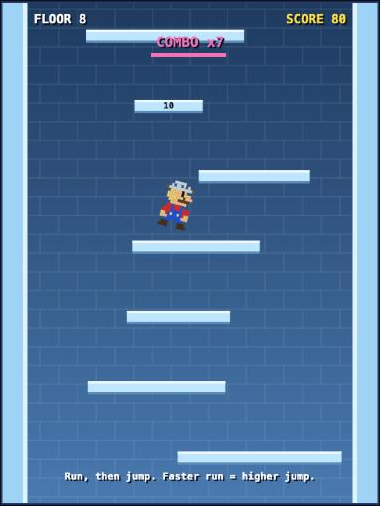
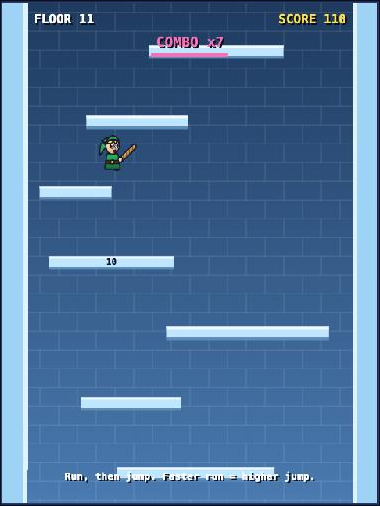
Redraw characters as vector art and add wall-kick jumps
Characters are now drawn with canvas shapes (outlines, gradients, run
animation) instead of 12x16 pixel grids. Wall bounces now add speed
instead of losing it, and jumping within 0.2s of a bounce gives a bonus
wall-kick jump. Build log updated with hours, research, and new screenshot.

diff --git a/docs/game.html b/docs/game.html
@@ -21,123 +21,185 @@ const WALL = 32;              // thickness of the side walls
 const FLOOR_GAP = 90;         // vertical distance between floors
 const STEP = 1 / 60;          // physics runs at a fixed 60 ticks/sec
 
-// ---------- Parody characters (pixel art: each letter is a color) ----------
+// ---------- Parody characters (vector art drawn with canvas shapes) ----------
+// Each character draws itself inside a 36x48 box, facing right, feet at the bottom.
+// `t` is the run-animation phase, `air` is true while jumping.
+const PW = 36, PH = 48;
+const OUTLINE = '#1a1a2e';
+
+function shape(fill, build) {
+  ctx.beginPath(); build(); ctx.fillStyle = fill; ctx.fill(); ctx.stroke();
+}
+const ellipse = (x, y, rx, ry, fill, rot = 0) => shape(fill, () => ctx.ellipse(x, y, rx, ry, rot, 0, Math.PI * 2));
+const circle = (x, y, r, fill) => ellipse(x, y, r, r, fill);
+const box = (x, y, w, h, r, fill) => shape(fill, () => ctx.roundRect(x, y, w, h, r));
+const shine = (x0, y0, x1, y1, light, dark) => {
+  const g = ctx.createLinearGradient(x0, y0, x1, y1);
+  g.addColorStop(0, light); g.addColorStop(1, dark);
+  return g;
+};
+function eye(x, y, r, lookX = 0.4, lookY = 0) {
+  ctx.lineWidth = 1;
+  ellipse(x, y, r * 0.75, r, '#fff');
+  ctx.beginPath(); ctx.arc(x + lookX * r * 0.4, y + lookY * r * 0.4, r * 0.45, 0, Math.PI * 2); ctx.fillStyle = '#111'; ctx.fill();
+  ctx.beginPath(); ctx.arc(x + lookX * r * 0.4 + r * 0.15, y + lookY * r * 0.4 - r * 0.2, r * 0.15, 0, Math.PI * 2); ctx.fillStyle = '#fff'; ctx.fill();
+  ctx.lineWidth = 1.5;
+}
+// two legs that swing while running and tuck while jumping
+function legs(t, air, hipY, drawLeg) {
+  const swing = air ? 0 : Math.sin(t) * 4;
+  const lift = air ? -4 : 0;
+  drawLeg(13 - swing, hipY, 46 + lift + Math.max(0, -Math.sin(t)) * -2);
+  drawLeg(23 + swing, hipY, 46 + lift + Math.max(0, Math.sin(t)) * -2);
+}
+
 const CHARACTERS = [
   {
     name: 'Super Marinara',
     bio: "It's-a me, a pasta.",
     stats: { accel: 0.45, maxSpeed: 9, jump: 11, grip: 0.97 },
-    palette: { R: '#d62828', C: '#cbd5e1', o: '#475569', m: '#7f4f24', Y: '#f4d35e', S: '#f1c27d', K: '#111', H: '#5c3a1a', B: '#1d4ed8', N: '#4a2c12' },
-    art: [
-      '...CCCCC....',
-      '..CoCCoCoC..',
-      'mCCCCCCCCCCm',
-      '..YYSSSKS...',
-      '.YSYSSSKSSS.',
-      '.YSYYSSSHSSS',
-      '..YSSSHHHHH.',
-      '...SSSSSSS..',
-      '..RRBRRRB...',
-      '.RRRBRRRBRRR',
-      'RRRRBBBBBRRR',
-      'SSRBYBBYBRSS',
-      'SSSBBBBBBSSS',
-      '..BBB..BBB..',
-      '.NNN....NNN.',
-      'NNNN....NNNN',
-    ],
+    draw(t, air) {
+      legs(t, air, 38, (x, hip, foot) => {
+        box(x - 3, hip, 6, foot - hip - 2, 2, '#1d4ed8');
+        ellipse(x + 2, foot - 1, 5, 3, '#4a2c12');
+      });
+      // spaghetti hair hanging out the back
+      ctx.save(); ctx.strokeStyle = '#e9c46a'; ctx.lineWidth = 2;
+      for (let i = 0; i < 4; i++) {
+        ctx.beginPath(); ctx.moveTo(12 + i, 12);
+        ctx.quadraticCurveTo(5 + i * 2, 18 + i * 2, 9 + i, 26 + i * 2 + Math.sin(t + i) * 1.5);
+        ctx.stroke();
+      }
+      ctx.restore();
+      ellipse(18, 32, 11, 8, shine(0, 24, 0, 40, '#ef4444', '#991b1b'));          // red shirt
+      box(11, 28, 14, 12, 3, shine(0, 28, 0, 40, '#3b82f6', '#1e3a8a'));         // overalls bib
+      circle(13.5, 31, 1.5, '#facc15'); circle(22.5, 31, 1.5, '#facc15');
+      // fork arm
+      ctx.save(); ctx.strokeStyle = '#94a3b8'; ctx.lineWidth = 1.5;
+      ctx.beginPath(); ctx.moveTo(31, 36); ctx.lineTo(34, 18); ctx.stroke();
+      for (const dx of [-1.5, 0, 1.5]) { ctx.beginPath(); ctx.moveTo(34 + dx, 18); ctx.lineTo(34.5 + dx, 13); ctx.stroke(); }
+      ctx.restore();
+      ellipse(28, 33, 4, 3, '#ef4444', -0.5); circle(31, 31, 2.8, '#fff');
+      // head
+      circle(19, 17, 9, shine(10, 8, 28, 26, '#fcd9a8', '#e0a96d'));
+      ellipse(27, 19, 4, 3.2, '#f4a582');                                         // big nose
+      ellipse(22, 23, 4, 2, '#4a2c12'); ellipse(28, 22.5, 4, 2, '#4a2c12');       // mustache
+      eye(22, 14, 3);
+      // colander hat
+      shape(shine(10, 2, 28, 12, '#f1f5f9', '#94a3b8'), () => { ctx.arc(19, 11, 10, Math.PI, 0); ctx.closePath(); });
+      ctx.fillStyle = '#334155';
+      for (const [hx, hy] of [[14, 7], [19, 5], [24, 7], [16.5, 9.5], [21.5, 9.5]]) { ctx.beginPath(); ctx.arc(hx, hy, 0.9, 0, Math.PI * 2); ctx.fill(); }
+      box(6, 10, 26, 3, 1.5, '#cbd5e1');
+      ellipse(5, 11.5, 2.5, 1.8, '#94a3b8'); ellipse(33, 11.5, 2.5, 1.8, '#94a3b8');
+    },
   },
   {
     name: 'Soggy the Hedgehog',
     bio: 'Gotta go... eventually.',
     stats: { accel: 0.5, maxSpeed: 10.5, jump: 10.5, grip: 0.985 },
-    palette: { U: '#2563eb', D: '#1e3a8a', W: '#fff', K: '#111', S: '#f1c27d', R: '#dc2626', C: '#67e8f9' },
-    art: [
-      '....UUUU....',
-      '..UUUUUUU...',
-      '.UUUUUUUUU..',
-      'UUUUWWKWW...',
-      'DUUUWWKWWS..',
-      'UUUUSSSSSSS.',
-      'DUUUUSSKKS..',
-      '.UUUUSSSS...',
-      '..UUUUUU.C..',
-      '.SUUSSUUS...',
-      '..UUSSSUU...',
-      '...UUUUU..C.',
-      '...UU.UU....',
-      '..WRR.WRR...',
-      '.RRRR.RRRR..',
-      '.C........C.',
-    ],
+    draw(t, air) {
+      legs(t, air, 36, (x, hip, foot) => {
+        box(x - 1.5, hip, 3, foot - hip - 2, 1.5, '#1e40af');
+        ellipse(x + 2, foot - 1.5, 6, 3.2, shine(0, foot - 4, 0, foot, '#f87171', '#b91c1c'));
+        ctx.save(); ctx.strokeStyle = '#fff'; ctx.lineWidth = 1.5; ctx.beginPath(); ctx.moveTo(x, foot - 4); ctx.lineTo(x + 2, foot); ctx.stroke(); ctx.restore();
+      });
+      // droopy, waterlogged spines
+      const blue = shine(0, 6, 0, 40, '#3b82f6', '#1e3a8a');
+      for (const [tx, ty] of [[1, 30], [3, 24], [4, 17]]) {
+        shape(blue, () => { ctx.moveTo(14, 10); ctx.quadraticCurveTo(tx - 2, ty - 8, tx, ty); ctx.lineTo(16, 22); ctx.closePath(); });
+      }
+      ellipse(17, 32, 8, 8, blue);
+      ellipse(19, 33, 5, 5.5, '#fcd9a8');                                          // belly
+      ellipse(27, 31, 4.5, 1.8, '#fcd9a8', 0.4); circle(30, 33, 2.5, '#fff');      // limp arm
+      circle(19, 17, 10, blue);
+      ellipse(25, 21, 6, 4, '#fcd9a8');                                            // muzzle
+      circle(30.5, 19, 1.8, '#111');
+      ctx.save(); ctx.lineWidth = 1; ctx.beginPath(); ctx.arc(26, 24.5, 2.5, Math.PI * 1.15, Math.PI * 1.85); ctx.stroke(); ctx.restore(); // frown
+      eye(23.5, 13.5, 4, 0.4, 0.6);
+      // heavy eyelid makes him look sad
+      shape('#2563eb', () => { ctx.ellipse(23.5, 13.5, 3.3, 4.3, 0, Math.PI * 1.05, Math.PI * 1.95); ctx.closePath(); });
+      // tiny personal rain cloud, with drops that fall on a loop
+      ctx.save(); ctx.lineWidth = 1;
+      ellipse(15, -6, 5, 3, '#94a3b8'); ellipse(21, -7, 6, 4, '#94a3b8'); ellipse(26, -5, 4, 3, '#94a3b8');
+      ctx.fillStyle = '#67e8f9';
+      for (let i = 0; i < 3; i++) {
+        const dy = ((t * 6 + i * 7) % 14);
+        ctx.beginPath(); ctx.ellipse(15 + i * 5, -2 + dy, 0.9, 1.6, 0, 0, Math.PI * 2); ctx.fill();
+      }
+      ctx.restore();
+    },
   },
   {
     name: 'Tax-Man',
     bio: 'Wakka wakka. You owe 30%.',
     stats: { accel: 0.38, maxSpeed: 8.5, jump: 12.5, grip: 0.97 },
-    palette: { G: '#16a34a', Y: '#facc15', K: '#111', W: '#f8fafc' },
-    art: [
-      '...GGGGGG...',
-      '..GGGGGGGG..',
-      '.GGGGGGGGGG.',
-      '.YYYYYYYYYY.',
-      'YYYYKYYYYYYY',
-      'YYYYKYYYY...',
-      'YYYYYYYY....',
-      'YYYYYYY..WW.',
-      'YYYYYYYY.WK.',
-      'YYYYYYYYY...',
-      'YYYYYYYYYYYY',
-      '.YYYYYYYYYY.',
-      '..YYYYYYYY..',
-      '...YYYYYY...',
-      '....K..K....',
-      '...KK..KK...',
-    ],
+    draw(t, air) {
+      legs(t, air, 38, (x, hip, foot) => {
+        ctx.save(); ctx.lineWidth = 2.5; ctx.beginPath(); ctx.moveTo(x, hip); ctx.lineTo(x, foot - 2); ctx.stroke(); ctx.restore();
+        ellipse(x + 2.5, foot - 1.5, 4.5, 2.2, '#111');
+      });
+      // receipt tape spilling from the mouth
+      ctx.save(); ctx.lineWidth = 1;
+      box(29, 22 + Math.sin(t) * 1.5, 7, 12, 1, '#f8fafc');
+      ctx.strokeStyle = '#94a3b8';
+      for (let ly = 25; ly < 33; ly += 2.5) { ctx.beginPath(); ctx.moveTo(30.5, ly + Math.sin(t) * 1.5); ctx.lineTo(34.5, ly + Math.sin(t) * 1.5); ctx.stroke(); }
+      ctx.restore();
+      // chomping body: the mouth opens and closes as he runs
+      const open = air ? 0.55 : 0.15 + Math.abs(Math.sin(t)) * 0.4;
+      shape(shine(6, 10, 30, 42, '#fde047', '#ca8a04'), () => { ctx.moveTo(18, 26); ctx.arc(18, 26, 15, open, Math.PI * 2 - open); ctx.closePath(); });
+      shape('#dc2626', () => { ctx.moveTo(15, 38); ctx.lineTo(19, 38); ctx.lineTo(18.5, 44); ctx.lineTo(17, 46); ctx.lineTo(15.5, 44); ctx.closePath(); }); // necktie
+      eye(19, 18, 3);
+      ctx.save(); ctx.lineWidth = 1.2; ctx.strokeStyle = '#78350f';
+      ctx.beginPath(); ctx.arc(19.5, 18, 4.5, 0, Math.PI * 2); ctx.stroke();            // reading glasses
+      ctx.beginPath(); ctx.moveTo(15, 18); ctx.lineTo(8, 16); ctx.stroke();
+      ctx.restore();
+      // green accountant's visor
+      ctx.save(); ctx.globalAlpha = 0.85;
+      shape(shine(0, 6, 0, 14, '#4ade80', '#15803d'), () => { ctx.moveTo(5, 13); ctx.quadraticCurveTo(16, 4, 27, 9); ctx.lineTo(35, 13); ctx.lineTo(25, 14); ctx.quadraticCurveTo(15, 11, 5, 15); ctx.closePath(); });
+      ctx.restore();
+    },
   },
   {
     name: 'Lunk',
     bio: 'Dangerous to go alone. Take this bread.',
     stats: { accel: 0.42, maxSpeed: 9, jump: 11.5, grip: 0.96 },
-    palette: { G: '#22c55e', Y: '#fde047', S: '#f1c27d', K: '#111', B: '#78350f', T: '#d4a373' },
-    art: [
-      '....GGG.....',
-      '...GGGGG....',
-      '..GGGGGGG...',
-      '..YYYYYYGG..',
-      '.YSSKSSKYG..',
-      '.YSSSSSSY.G.',
-      '..SSSSSS....',
-      '...SSSS..T..',
-      '..GGGGGG.T..',
-      '.SGGGGGGST..',
-      '.SGGBBGGTT..',
-      '..GGGGGG.T..',
-      '..GGGGGG....',
-      '..SS..SS....',
-      '.BBB..BBB...',
-      '.BBB..BBB...',
-    ],
+    draw(t, air) {
+      legs(t, air, 38, (x, hip, foot) => {
+        box(x - 2.5, hip, 5, foot - hip - 4, 2, '#f5e6c8');
+        box(x - 3, foot - 7, 7, 7, 2, '#78350f');
+      });
+      // floppy cap tail behind the head
+      shape(shine(0, 4, 0, 28, '#4ade80', '#15803d'), () => { ctx.moveTo(12, 8); ctx.quadraticCurveTo(0, 12, 2, 28 + Math.sin(t) * 2); ctx.quadraticCurveTo(8, 18, 14, 16); ctx.closePath(); });
+      // tunic, belt, buckle
+      shape(shine(0, 24, 0, 42, '#22c55e', '#166534'), () => { ctx.moveTo(11, 25); ctx.lineTo(25, 25); ctx.lineTo(28, 41); ctx.lineTo(8, 41); ctx.closePath(); });
+      box(9, 32, 18, 3, 1, '#78350f'); box(16, 31.5, 4, 4, 1, '#facc15');
+      // baguette held up like a legendary sword
+      ctx.save(); ctx.translate(29, 31); ctx.rotate(0.5 + (air ? 0.4 : Math.sin(t) * 0.1));
+      box(-2.5, -24, 5, 26, 2.5, shine(-3, 0, 3, 0, '#e9b872', '#b07936'));
+      ctx.strokeStyle = '#7c4a1e'; ctx.lineWidth = 1;
+      for (let s = -20; s < 0; s += 5) { ctx.beginPath(); ctx.moveTo(-1.5, s); ctx.lineTo(1.5, s + 2.5); ctx.stroke(); }
+      ctx.restore();
+      circle(28, 31, 2.8, '#fcd9a8');                                              // hand
+      // head, pointy ear, hair
+      shape('#fcd9a8', () => { ctx.moveTo(11, 15); ctx.lineTo(4, 11); ctx.lineTo(12, 19); ctx.closePath(); });
+      circle(18, 17, 8.5, shine(10, 8, 26, 26, '#fde4c3', '#e0a96d'));
+      shape('#fde047', () => { ctx.moveTo(10, 14); ctx.quadraticCurveTo(18, 7, 27, 14); ctx.lineTo(24, 12); ctx.lineTo(22, 15); ctx.lineTo(19, 12); ctx.lineTo(16, 15); ctx.closePath(); });
+      eye(17.5, 17, 2.6, -0.6, 0.2); eye(23, 17, 2.6, 0.8, -0.3);                  // eyes pointing two ways
+      ctx.save(); ctx.lineWidth = 1; ellipse(21, 22.5, 1.8, 1.4, '#7f1d1d'); ctx.restore();  // open mouth
+      // cap
+      shape(shine(0, 3, 0, 12, '#4ade80', '#15803d'), () => { ctx.moveTo(9, 13); ctx.quadraticCurveTo(18, 0, 27, 12); ctx.quadraticCurveTo(18, 8, 9, 13); ctx.closePath(); });
+    },
   },
 ];
 
-const PIXEL = 3;                 // each art pixel becomes a 3x3 block on screen
-const PW = 12 * PIXEL, PH = 16 * PIXEL;
-
-function drawSprite(ch, x, y, facing, angle = 0, squash = 1) {
+function drawSprite(ch, x, y, facing, angle = 0, squash = 1, t = 0, air = false) {
   ctx.save();
   ctx.translate(x + PW / 2, y + PH);           // pivot at the feet
   ctx.rotate(angle);
   ctx.scale(facing, squash);
   ctx.translate(-PW / 2, -PH);
-  ch.art.forEach((row, ry) => {
-    for (let rx = 0; rx < row.length; rx++) {
-      const color = ch.palette[row[rx]];
-      if (!color) continue;
-      ctx.fillStyle = color;
-      ctx.fillRect(rx * PIXEL, ry * PIXEL, PIXEL, PIXEL);
-    }
-  });
+  ctx.lineWidth = 1.5; ctx.lineJoin = 'round'; ctx.lineCap = 'round'; ctx.strokeStyle = OUTLINE;
+  ch.draw(t, air);
   ctx.restore();
 }
 
@@ -171,7 +233,7 @@ function makeFloor(n) {
 
 function startGame() {
   const ch = CHARACTERS[selected];
-  player = { ch, x: W / 2 - PW / 2, y: -PH, vx: 0, vy: 0, onGround: true, facing: 1, angle: 0, squash: 1, floor: 0 };
+  player = { ch, x: W / 2 - PW / 2, y: -PH, vx: 0, vy: 0, onGround: true, facing: 1, angle: 0, squash: 1, floor: 0, anim: 0, wallKick: 0 };
   floors = [];
   for (let n = 0; n < 12; n++) floors.push(makeFloor(n));
   camY = -H + 60;               // camera top edge, in world coordinates (up is negative y)
@@ -202,14 +264,21 @@ function update() {
   if (left()) { p.vx -= accel; p.facing = -1; }
   if (right()) { p.vx += accel; p.facing = 1; }
   if (!left() && !right() && p.onGround) p.vx *= s.grip;
-  p.vx = Math.max(-s.maxSpeed, Math.min(s.maxSpeed, p.vx));
+  // Normal top speed is maxSpeed, but a wall bounce can push you past it; that extra speed fades slowly
+  const cap = Math.max(s.maxSpeed, Math.abs(p.vx) * 0.99);
+  p.vx = Math.max(-cap, Math.min(cap, p.vx));
+  if (p.onGround) p.anim += Math.abs(p.vx) * 0.12;
 
-  // The faster you're running, the higher you jump — the core trick of the genre
+  // The faster you're running, the higher you jump — the core trick of the genre.
+  // Jump within a split second of bouncing off a wall for a bonus "wall kick" super jump.
   if (jumpHeld() && p.onGround) {
-    p.vy = -(s.jump + Math.abs(p.vx) * 0.9);
+    const kick = p.wallKick > 0 ? 3 : 0;
+    p.vy = -(s.jump + Math.abs(p.vx) * 0.9 + kick);
     p.onGround = false;
     p.squash = 1.3;
+    if (kick) { message = 'WALL KICK!'; messageTimer = 45; }
   }
+  if (p.wallKick > 0) p.wallKick--;
 
   p.vy += 0.55;                                 // gravity
   if (!jumpHeld() && p.vy < -4) p.vy += 0.4;    // let go early for a shorter hop
@@ -217,11 +286,13 @@ function update() {
   const prevBottom = p.y + PH;
   p.y += p.vy;
 
-  // Walls: hit one fast and you bounce off with most of your speed (and get an extra boost upward)
+  // Walls: hit one fast and you bounce off FASTER than you came in (like the classic genre trick),
+  // which opens a short window to time a wall-kick jump
   if (p.x < WALL || p.x + PW > W - WALL) {
     p.x = p.x < WALL ? WALL : W - WALL - PW;
     if (Math.abs(p.vx) > 4) {
-      p.vx = -p.vx * 0.9;
+      p.vx = -Math.sign(p.vx) * Math.min(Math.abs(p.vx) * 1.15, s.maxSpeed * 1.4);
+      p.wallKick = 12;                          // 12 ticks = 0.2 seconds to press jump
       if (!p.onGround && p.vy < 0) p.vy -= 2;   // wall kick: slide up the wall
       p.facing = Math.sign(p.vx);
     } else p.vx = 0;
@@ -354,7 +425,7 @@ function drawSelect() {
   text('choose your knockoff', W / 2, 145, 16, '#93c5fd');
   const ch = CHARACTERS[selected];
   ctx.save(); ctx.translate(W / 2 - PW, 210); ctx.scale(2, 2);
-  drawSprite(ch, 0, 0, 1);
+  drawSprite(ch, 0, 0, 1, 0, 1, performance.now() / 120);
   ctx.restore();
   text(`<  ${ch.name}  >`, W / 2, 360, 20, '#fde047');
   text(`"${ch.bio}"`, W / 2, 390, 13, '#e2e8f0');
@@ -362,6 +433,7 @@ function drawSelect() {
   text(`speed ${'■'.repeat(Math.round(s.maxSpeed - 6))}   jump ${'■'.repeat(Math.round(s.jump - 8))}`, W / 2, 420, 13, '#93c5fd');
   text('← → pick   ENTER start', W / 2, 480, 15);
   text('arrows / WASD move · SPACE jump', W / 2, 505, 13, '#cbd5e1');
+  text('tip: jump right after a wall bounce = WALL KICK', W / 2, 528, 12, '#f472b6');
   text(`best: ${highScore}`, W / 2, 560, 14, '#fde047');
   text('All characters are parodies. Not affiliated with any real game.', W / 2, 615, 10, '#94a3b8');
 }
@@ -370,7 +442,7 @@ function drawPlay() {
   drawBackground(camY);
   drawFloors();
   drawWalls();
-  drawSprite(player.ch, player.x, player.y - camY, player.facing, player.angle, player.squash);
+  drawSprite(player.ch, player.x, player.y - camY, player.facing, player.angle, player.squash, player.anim, !player.onGround);
   drawHUD();
 }
 

diff --git a/docs/index.html b/docs/index.html
@@ -160,9 +160,9 @@
         <strong>Current Status:</strong> Build 1: rough local prototype (one HTML file, runs in any browser)<br />
         <strong>Demo:</strong> <a href="game.html">Play the prototype →</a> (arrows/WASD to move, Space to jump)
       </p>
-      <img src="img/gameplay.png" alt="Gameplay: Super Marinara mid-jump on floor 8 with a 7-floor combo" style="max-width: 320px; width: 100%; border-radius: 8px; border: 1px solid var(--border);" />
+      <img src="img/gameplay.png" alt="Gameplay: Lunk mid-jump on floor 11 with a 7-floor combo" style="max-width: 320px; width: 100%; border-radius: 8px; border: 1px solid var(--border);" />
       <p class="meta">
-        Prototype screenshot: Super Marinara (colander hat, spaghetti hair) mid-jump on floor 8 during a combo.
+        Prototype screenshot: Lunk (green cap, baguette for a sword) mid-jump on floor 11 during a 7-floor combo.
         All characters are original parody designs (Super Marinara, Soggy the Hedgehog, Tax-Man, Lunk) and are not affiliated with any real game or company.
       </p>
     </section>
@@ -218,10 +218,10 @@
       <div class="log-entry">
         <h3>Build 1 · Intent.md & Throwaway Prototype (Due Nov 9)</h3>
         <ul>
-          <li><strong>What shipped (Nov 3):</strong> A playable prototype in a single file (<a href="game.html">game.html</a>, plain HTML + JavaScript canvas, no libraries, no API keys). <em>Works:</em> four parody characters with hand-coded pixel art and slightly different stats; icy floors that keep you sliding when you let go; jumps that get higher the faster you run (≈1.2 floors standing vs ≈3.9 floors at full speed, measured); wall bounces; a tower that starts scrolling after 5 seconds and speeds up; combos for multi-floor jumps; a saved high score.</li>
-          <li><strong>Things learned with AI:</strong> A game is a loop: read input → update physics → draw, about 60 times a second. Physics should run on a fixed clock ("fixed timestep") so the game plays the same on a 60Hz and a 120Hz screen. Parody only works when the joke is visible: the first Super Marinara looked like a straight copy, so we gave him a colander hat.</li>
-          <li><strong>What broke / changed:</strong> The local web server couldn't read files in iCloud Drive (macOS privacy block), so the prototype now runs by opening the file directly in a browser. Our automated test bot "lost" constantly at first. That was the bot letting go of jump too early, not a game bug, but it showed that the first 3 seconds were too harsh, so the scroll now waits 5 seconds. Soggy (the slipperiest character) is hard to control; that may be a feature or a bug, and playtesting will tell.</li>
-          <li><strong>Cost & time this week:</strong> $0 runtime (no APIs) · coding agent: Claude Code on my existing subscription · [X] hours</li>
+          <li><strong>What shipped (Nov 3):</strong> A playable prototype in a single file (<a href="game.html">game.html</a>, plain HTML + JavaScript canvas, no libraries, no API keys). <em>Works:</em> four parody characters drawn as vector art (outlines, shading, run animations) with slightly different stats; icy floors that keep you sliding when you let go; jumps that get higher the faster you run (≈1.2 floors standing vs ≈3.9 floors at full speed, measured); wall bounces that speed you up, plus a timed "wall kick" (jump within 0.2s of a bounce) that reaches ≈5.3 floors; a tower that starts scrolling after 5 seconds and speeds up; combos for multi-floor jumps; a saved high score.</li>
+          <li><strong>Things learned with AI:</strong> A game is a loop: read input → update physics → draw, about 60 times a second. Physics should run on a fixed clock ("fixed timestep") so the game plays the same on a 60Hz and a 120Hz screen. Parody only works when the joke is visible: the first Super Marinara looked like a straight copy, so we gave him a colander hat. Researching how classic tower climbers feel showed that a wall bounce should <em>add</em> speed, not lose it. My first version lost 10% of your speed on every bounce, so I changed it.</li>
+          <li><strong>What broke / changed:</strong> The local web server couldn't read files in iCloud Drive (macOS privacy block), so the prototype now runs by opening the file directly in a browser. Our automated test bot "lost" constantly at first. That was the bot letting go of jump too early, not a game bug, but it showed that the first 3 seconds were too harsh, so the scroll now waits 5 seconds. Soggy (the slipperiest character) is hard to control; that may be a feature or a bug, and playtesting will tell. The first characters were 12×16 pixel art and looked too basic, so I redrew them as smooth vector shapes. I couldn't make the class org the repo owner, so the repo lives on my personal account for now (letting the instructors know).</li>
+          <li><strong>Cost & time this week:</strong> $0 runtime (no APIs) · coding agent: Claude Code on my existing subscription · 3 hours</li>
         </ul>
       </div>
 
